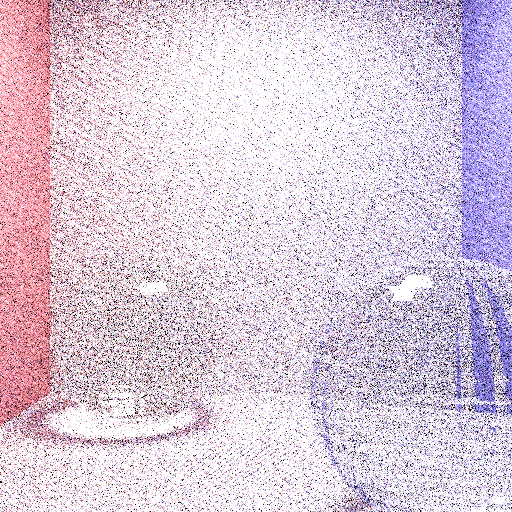
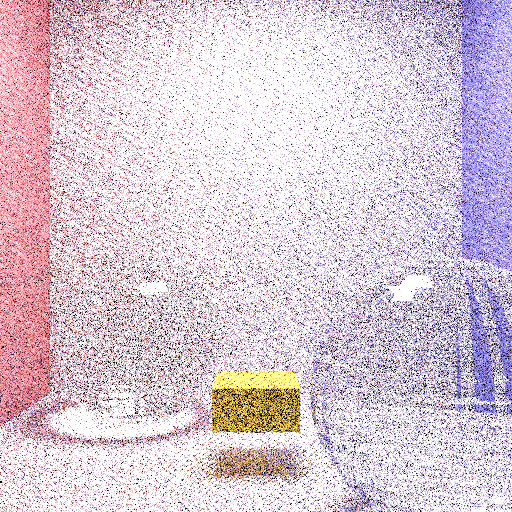
精简render_config配置文件，调整黄色金属盒子大小

diff --git a/libWR/test/cornell_box_var_test.cpp b/libWR/test/cornell_box_var_test.cpp
@@ -19,6 +19,7 @@ void buildCornellBoxVar(Scene* scene) {
     uint32_t blueMat = scene->addLambertianMaterial(Vec3(0.25f, 0.25f, 0.75f));
     uint32_t lightMat = scene->addEmissiveMaterial(Vec3(40.0f, 40.0f, 40.0f));
     uint32_t glassMat = scene->addGlassMaterial(Vec3(0.999f, 0.999f, 0.999f), 1.5f);
+    uint32_t metalMat = scene->addLambertianMaterial(Vec3(0.9f, 0.7f, 0.1f)); // Yellow metal material
     
     const float L = -1.5f, R = 1.5f;
     const float B = 0.0f, T = 3.0f;
@@ -69,6 +70,60 @@ void buildCornellBoxVar(Scene* scene) {
         utils::createSphere(verts, inds, 0.7f, 0.5f, 0.7f, 0.5f, 32, 24);
         scene->addTriangleMesh(std::span(verts), std::span(inds), glassMat);
     }
+    
+    // Add yellow metal box in the center
+    {
+        float boxSize = 0.2f;
+        float boxY = 0.2f;
+        float verts[] = {
+            // Front face
+            -boxSize, boxY, -boxSize,
+            boxSize, boxY, -boxSize,
+            boxSize, boxY + boxSize, -boxSize,
+            -boxSize, boxY + boxSize, -boxSize,
+            // Back face
+            -boxSize, boxY, boxSize,
+            boxSize, boxY, boxSize,
+            boxSize, boxY + boxSize, boxSize,
+            -boxSize, boxY + boxSize, boxSize,
+            // Left face
+            -boxSize, boxY, -boxSize,
+            -boxSize, boxY, boxSize,
+            -boxSize, boxY + boxSize, boxSize,
+            -boxSize, boxY + boxSize, -boxSize,
+            // Right face
+            boxSize, boxY, -boxSize,
+            boxSize, boxY, boxSize,
+            boxSize, boxY + boxSize, boxSize,
+            boxSize, boxY + boxSize, -boxSize,
+            // Top face
+            -boxSize, boxY + boxSize, -boxSize,
+            boxSize, boxY + boxSize, -boxSize,
+            boxSize, boxY + boxSize, boxSize,
+            -boxSize, boxY + boxSize, boxSize,
+            // Bottom face
+            -boxSize, boxY, -boxSize,
+            boxSize, boxY, -boxSize,
+            boxSize, boxY, boxSize,
+            -boxSize, boxY, boxSize
+        };
+        uint32_t inds[] = {
+            // Front face
+            0, 1, 2, 0, 2, 3,
+            // Back face
+            4, 5, 6, 4, 6, 7,
+            // Left face
+            8, 9, 10, 8, 10, 11,
+            // Right face
+            12, 13, 14, 12, 14, 15,
+            // Top face
+            16, 17, 18, 16, 18, 19,
+            // Bottom face
+            20, 21, 22, 20, 22, 23
+        };
+        scene->addTriangleMesh(std::span(verts, 72), std::span(inds, 36), metalMat);
+    }
+    
     std::cout << "[Test] Cornell Box Variation scene built" << std::endl;
 }
 

diff --git a/libWR/test/render_config.h b/libWR/test/render_config.h
@@ -20,10 +20,6 @@ struct RenderConfig {
     uint32_t height = 512;
     uint32_t spp = 4;
     bool denoiser = true;
-    float denoiserBlend = 0.0f;  // blend factor used by OptiX denoiser
-    bool enableTiling = false;   // enable tile-based denoiser processing
-    uint32_t tileWidth = 0;      // 0 = full image, otherwise specify tile dims for denoiser
-    uint32_t tileHeight = 0;
 };
 
 namespace render_config {
@@ -177,17 +173,6 @@ inline RenderConfig load(const std::string& sectionName, const RenderConfig& def
             config.spp = parsed;
         } else if (key == "denoiser") {
             config.denoiser = (parsed != 0);
-        } else if (key == "denoiserblend" || key == "blend") {
-            float f;
-            if (parseFloat(value, &f)) {
-                config.denoiserBlend = f;
-            }
-        } else if (key == "tilewidth") {
-            config.tileWidth = parsed;
-        } else if (key == "tileheight") {
-            config.tileHeight = parsed;
-        } else if (key == "tiling") {
-            config.enableTiling = (parsed != 0);
         }
     }
 
